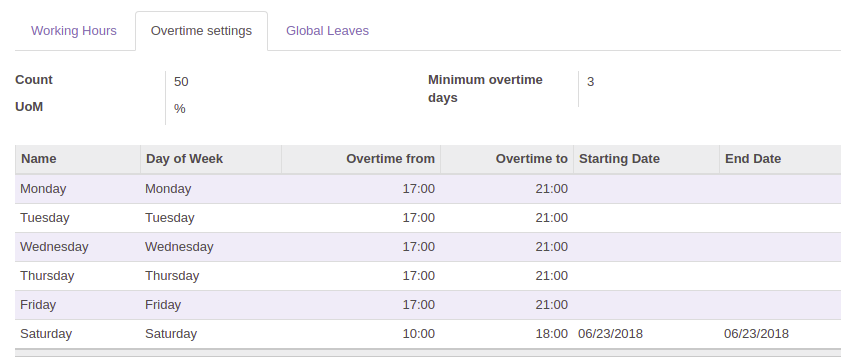
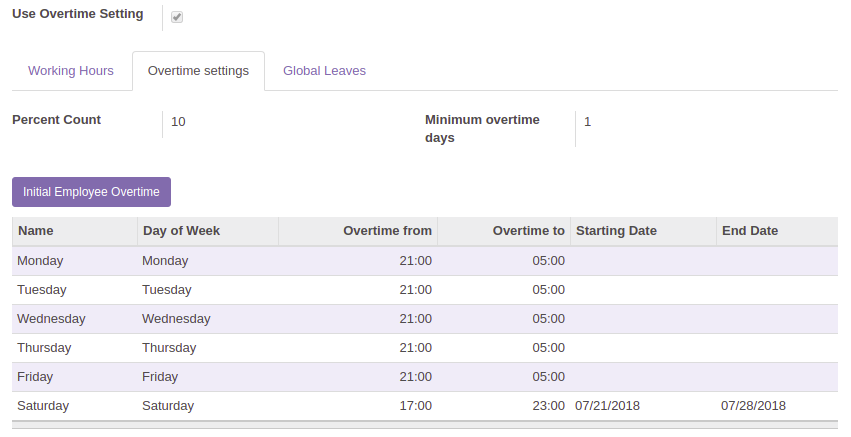
dev_11 [REF] Migration, refactor

diff --git a/hr_employee_time_clock_extension/static/description/index.html b/hr_employee_time_clock_extension/static/description/index.html
@@ -14,12 +14,12 @@
         <p>
             Once you install the module, you'll see additional checkbox on the employee contract working schedule page called <i>Use Overtime Setting</i>. On checking this button you can observe additional tab called <i>Overtime settings</i> which allows you to set up:
             <ul>
-                <li><i>"Count"</i> which represent salary increment;</li>
-                <li><i>"UoM"</i> - unit of measurement;</li>
+                <li><i>"Percent Count"</i> which represent salary increment;</li>
                 <li><i>"Minimum overtime days"</i> which allows to set up how many days employee should work to have an increased salary;</li>
                 <li>Days of week and overtime working hours, start/end date for each weekday;</li>
             </ul>
-            <img class="oe_picture oe_screenshot" src="Screenshot-1.png" alt="">
+            <img class="oe_picture oe_screenshot" src="Screenshot-7.png" alt=""><br/>
+            <img class="oe_picture oe_screenshot" src="Screenshot-6.png" alt="">
         </p>
     </div>
 </section>
@@ -27,15 +27,17 @@
     <div class="oe_row oe_spaced">
         <h4 class="oe_slogan">Features</h4>
         <ul class="list-unstyled">
-            <li><i class="fa fa-check-square-o text-primary"></i> Calculates "bonus hours" based on individual employee contracts</li>
+            <li><i class="fa fa-check-square-o text-primary"></i> Calculates "bonus hours", "night shift hours" based on individual employee contracts</li>
+            <li><i class="fa fa-check-square-o text-primary"></i> Additional fields in attendance sheet</li>
+            <li><i class="fa fa-check-square-o text-primary"></i> Bonus hours are included in attendance sheet field named "Total Balance"</li>
         </ul>
     </div>
 </section>
 <section class="oe_container">
     <div class="oe_row oe_spaced">
         <h3>How it works</h3>
-        <p>The module adds a new data type called <i>bonus hours</i>, which is the baseline for all calcualtions. Bonus hours are calculated based on the overtime schedule assigned to an employee/contract. Whenever an employee works on overtime hours, bonus hours for those days are set to configured count.</p>
-        <p>Once you have a overtime schedule set up for an employee, his bonus hours are tracked using sign in/out timestamps. Each employee can use one of these methods to sign in/out:
+        <p>The module adds a new data types called <i>bonus hours</i> and <i>night shift hours</i>, which is the baseline for all calcualtions. Bonus hours and night shift hours are calculated based on the overtime schedule assigned to an employee/contract. Whenever an employee works on overtime hours, bonus hours and night shift hours for those days are set to configured count.</p>
+        <p>Once you have a overtime schedule set up for an employee, his bonus hours, night shift hours are tracked using sign in/out timestamps. Each employee can use one of these methods to sign in/out:
             <ul>
                 <li>Sign in/out to your Odoo instance</li>
                 <li>Sign in/out from our iPhone app</li>
@@ -67,6 +69,9 @@
                 </li>
                 <li>Go to <i>Overtime settings</i> tab and set up overtime configurations.
                     <img class="oe_picture oe_screenshot" src="Screenshot-5.png" alt="">
+                </li>
+                <li>Press <i>Initial Employee Overtime</i> button.
+                    <img class="oe_picture oe_screenshot" src="Screenshot-8.png" alt="">
                 </li>
             </ul>
         </p>

diff --git a/hr_employee_time_clock_extension/models/resource.py b/hr_employee_time_clock_extension/models/resource.py
@@ -28,12 +28,6 @@ class ResourceCalendar(models.Model):
     count = fields.Integer(string="Percent Count",
                            default=0,
                            required=True)
-    # uom = fields.Selection([('percent', '%'),
-    #                         ('minute', 'Minutes'),
-    #                         ('hour', 'Hours'), ],
-    #                        string='UoM',
-    #                        required=True,
-    #                        default='percent')
     overtime_attendance_ids = fields.One2many(
         'resource.calendar.attendance.overtime',
         'overtime_calendar_id',
@@ -88,6 +82,19 @@ class ResourceCalendar(models.Model):
             to_tz(fields.Datetime.from_string(leave.date_from), leave.tz),
             to_tz(fields.Datetime.from_string(leave.date_to), leave.tz),
             {'leaves': leave}) for leave in filtered_leaves]
+
+    @api.one
+    def initial_overtime(self):
+        users = self.env['res.users'].search([])
+        for user in users:
+            if not user.tz:
+                raise ValidationError(_("Timezone for {user} "
+                                        "is not set.".format(user=user.name)))
+
+        attendances = self.env['hr.attendance'].search([])
+
+        for attendance in attendances:
+            attendance.write({'check_out': attendance.check_out})
 
 
 class ResourceCalendarAttendanceOvertime(models.Model):

diff --git a/hr_employee_time_clock_extension/models/hr_attendance.py b/hr_employee_time_clock_extension/models/hr_attendance.py
@@ -312,10 +312,8 @@ class HrAttendance(models.Model):
                             over.with_context(ctx).write(val)
                 else:
                     for over in overtime_attendance:
-                        # super(HrAttendance, over).write({'overtime_change':False})
                         over.with_context(overtime_context).write(
                             {'overtime_change': False})
-                # return res
             else:
                 values.update(have_overtime=False,
                               bonus_worked_hours=0.0,
@@ -340,8 +338,6 @@ class HrAttendance(models.Model):
     def create(self, values):
         if values.get('check_out'):
             attendance = super(HrAttendance, self).create(values)
-            # attendance.check_overtime(values)
             return attendance
         attendance = super(HrAttendance, self).create(values)
-        contract = attendance.get_contract(values.get('check_in'))
         return attendance

diff --git a/hr_employee_time_clock_extension/migrations/11.0.0.0.3/post-migrate.py b/hr_employee_time_clock_extension/migrations/11.0.0.0.3/post-migrate.py
@@ -20,8 +20,9 @@
 #
 ##############################################################################
 
-from . import resource
-from . import hr_timesheet_dh
-from . import hr_timesheet_sheet
-from . import hr_employee
-from . import hr_attendance
+
+def migrate(cr, version):
+    cr.execute(
+        """UPDATE hr_attendance  SET have_overtime = FALSE , 
+                    bonus_worked_hours = 0.0, calculate_overtime = FALSE , 
+                    night_shift_worked_hours = 0.0, overtime_change = FALSE """)

diff --git a/hr_employee_time_clock_extension/__manifest__.py b/hr_employee_time_clock_extension/__manifest__.py
@@ -26,11 +26,10 @@
     'summary': 'Night shift configurations',
     'website': "http://www.bytebrand.net",
     'category': 'Human Resources',
-    'version': '11.0.0.0.2',
+    'version': '11.0.0.0.3',
     'depends': ['hr_employee_time_clock', ],
     'data': [
         'views/hr_employee_views.xml',
-        'views/res_users_views.xml',
         'views/resource_calendar_view.xml',
     ],
 
